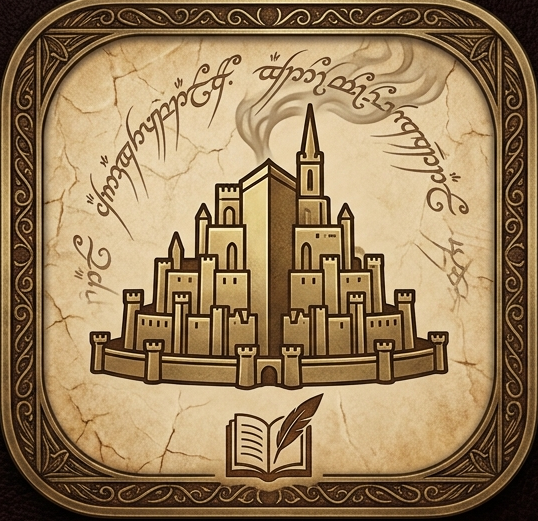
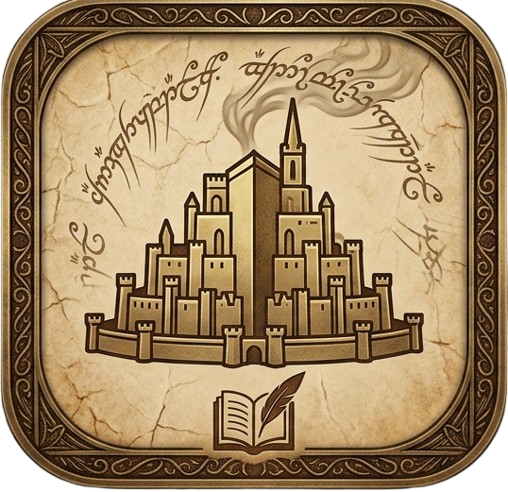
docs: update readme

Changed region(s): [[0.0, 0.0, 1.0, 1.0], [0.8563, 0.0, 1.0, 0.3049], [0.9744, 0.3659, 1.0, 0.3963]]

diff --git a/Readme.md b/Readme.md
@@ -1,5 +1,5 @@
 <h1 align="center">
-  <img src="./images/minas.png">
+  <img src="./images/minas.png" style="width: 25%; height: auto;">
 </h1>
 
 # Minas Tirith
